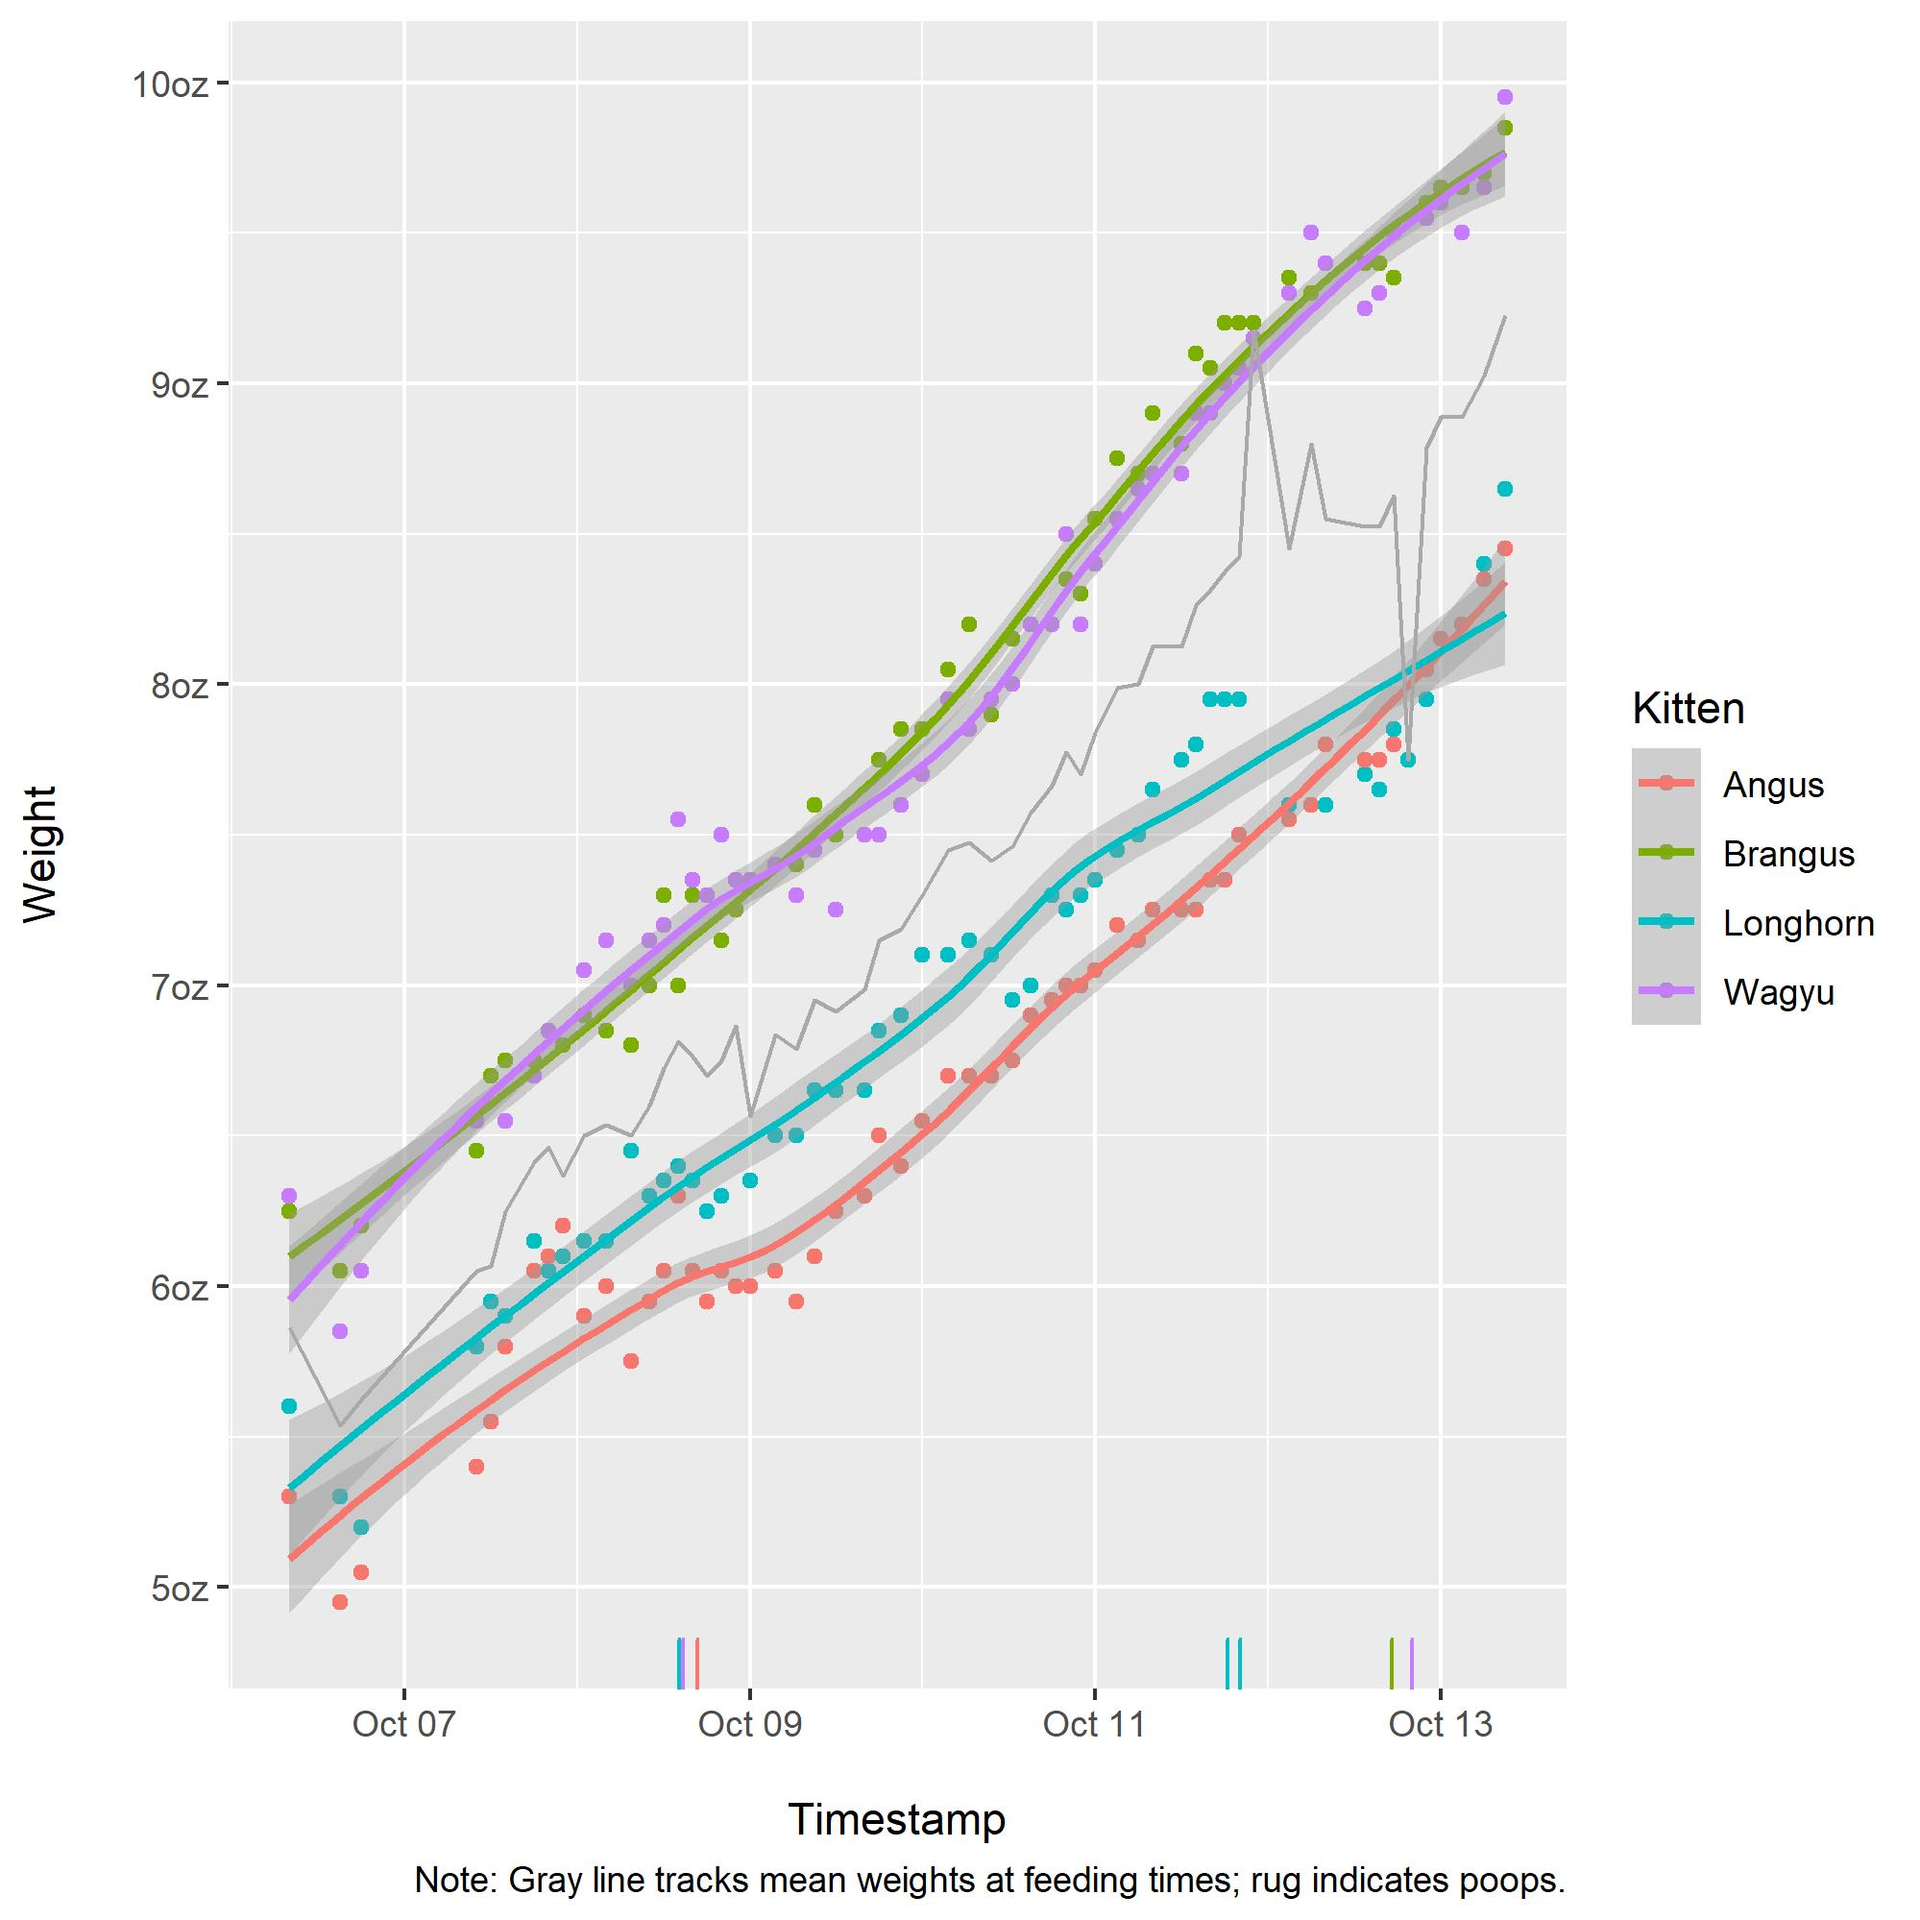
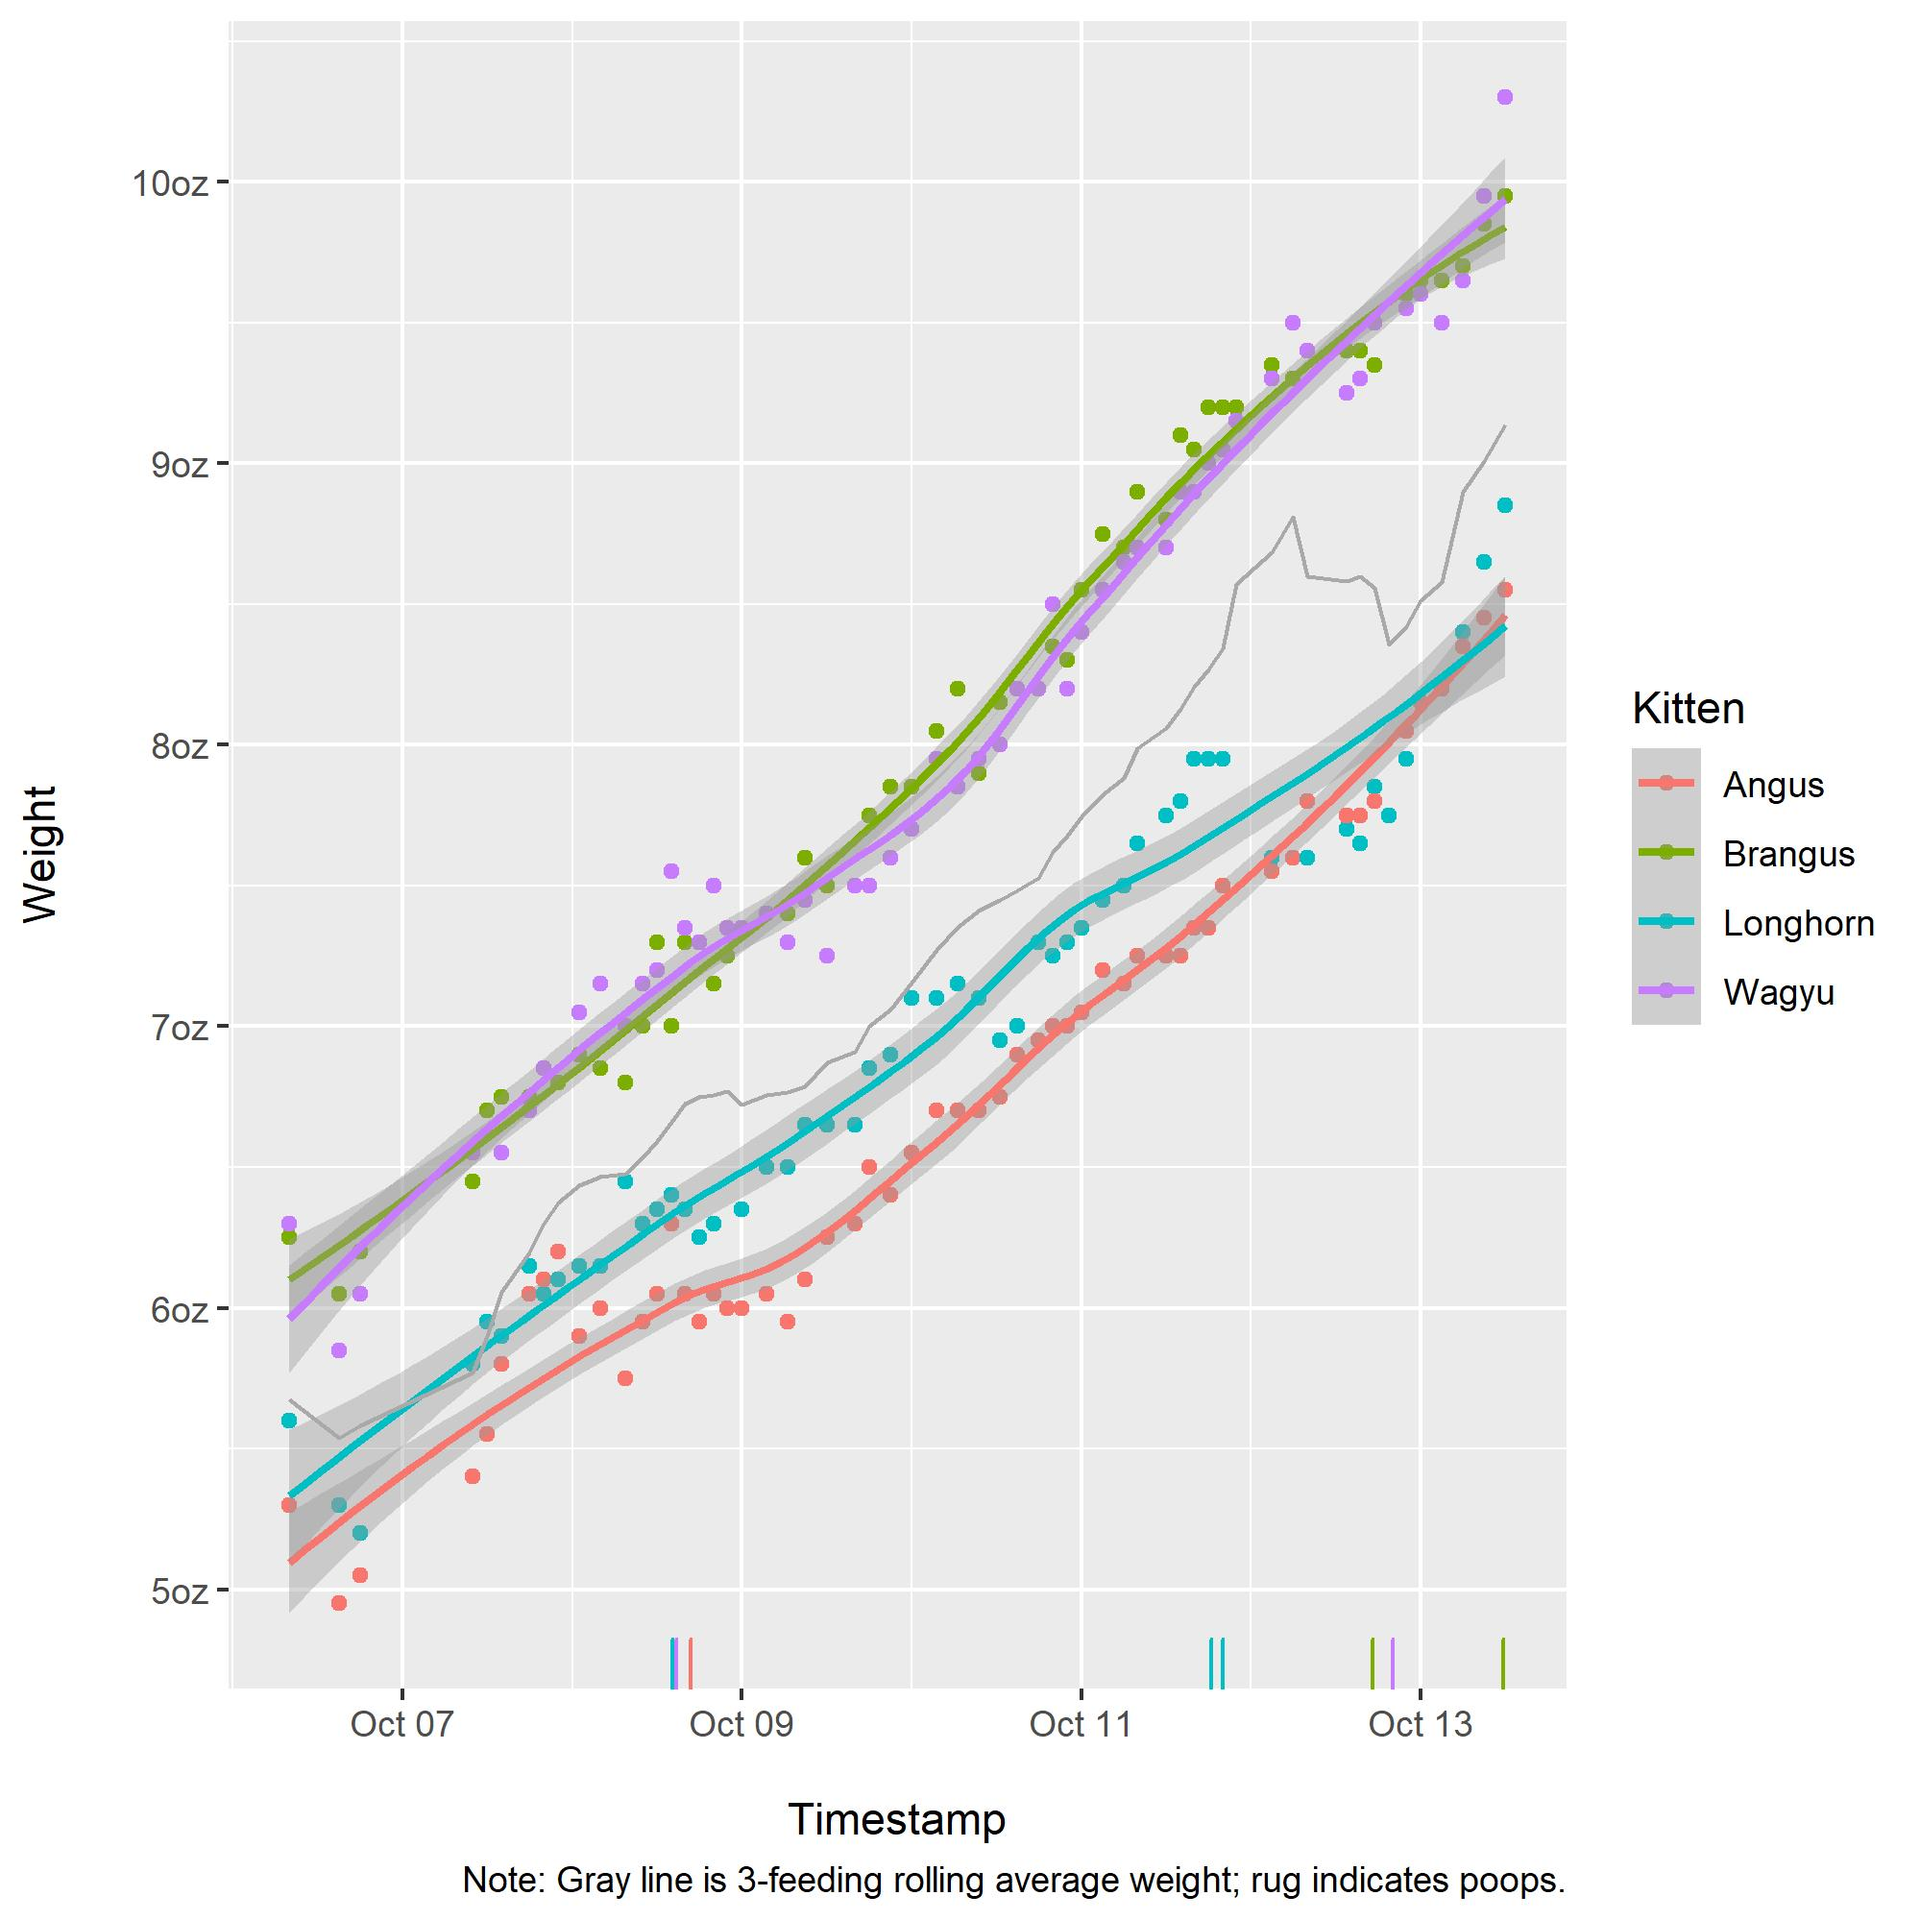
Converted avg. feeding-time weight to a 3-feeding rolling average; also, feeding update

diff --git a/readme.md b/readme.md
@@ -44,7 +44,7 @@ Current Avg. Weight
 
 <td style="text-align:left;">
 
-9.22oz
+9.41oz
 
 </td>
 
@@ -92,7 +92,7 @@ Avg. Gain per Day per Kitty
 
 <td style="text-align:left;">
 
-0.45oz
+0.48oz
 
 </td>
 
@@ -124,7 +124,7 @@ Expected Avg. Weight at 3 Years of Age
 
 <td style="text-align:left;">
 
-34lb 1oz
+34lb 6oz
 
 </td>
 
